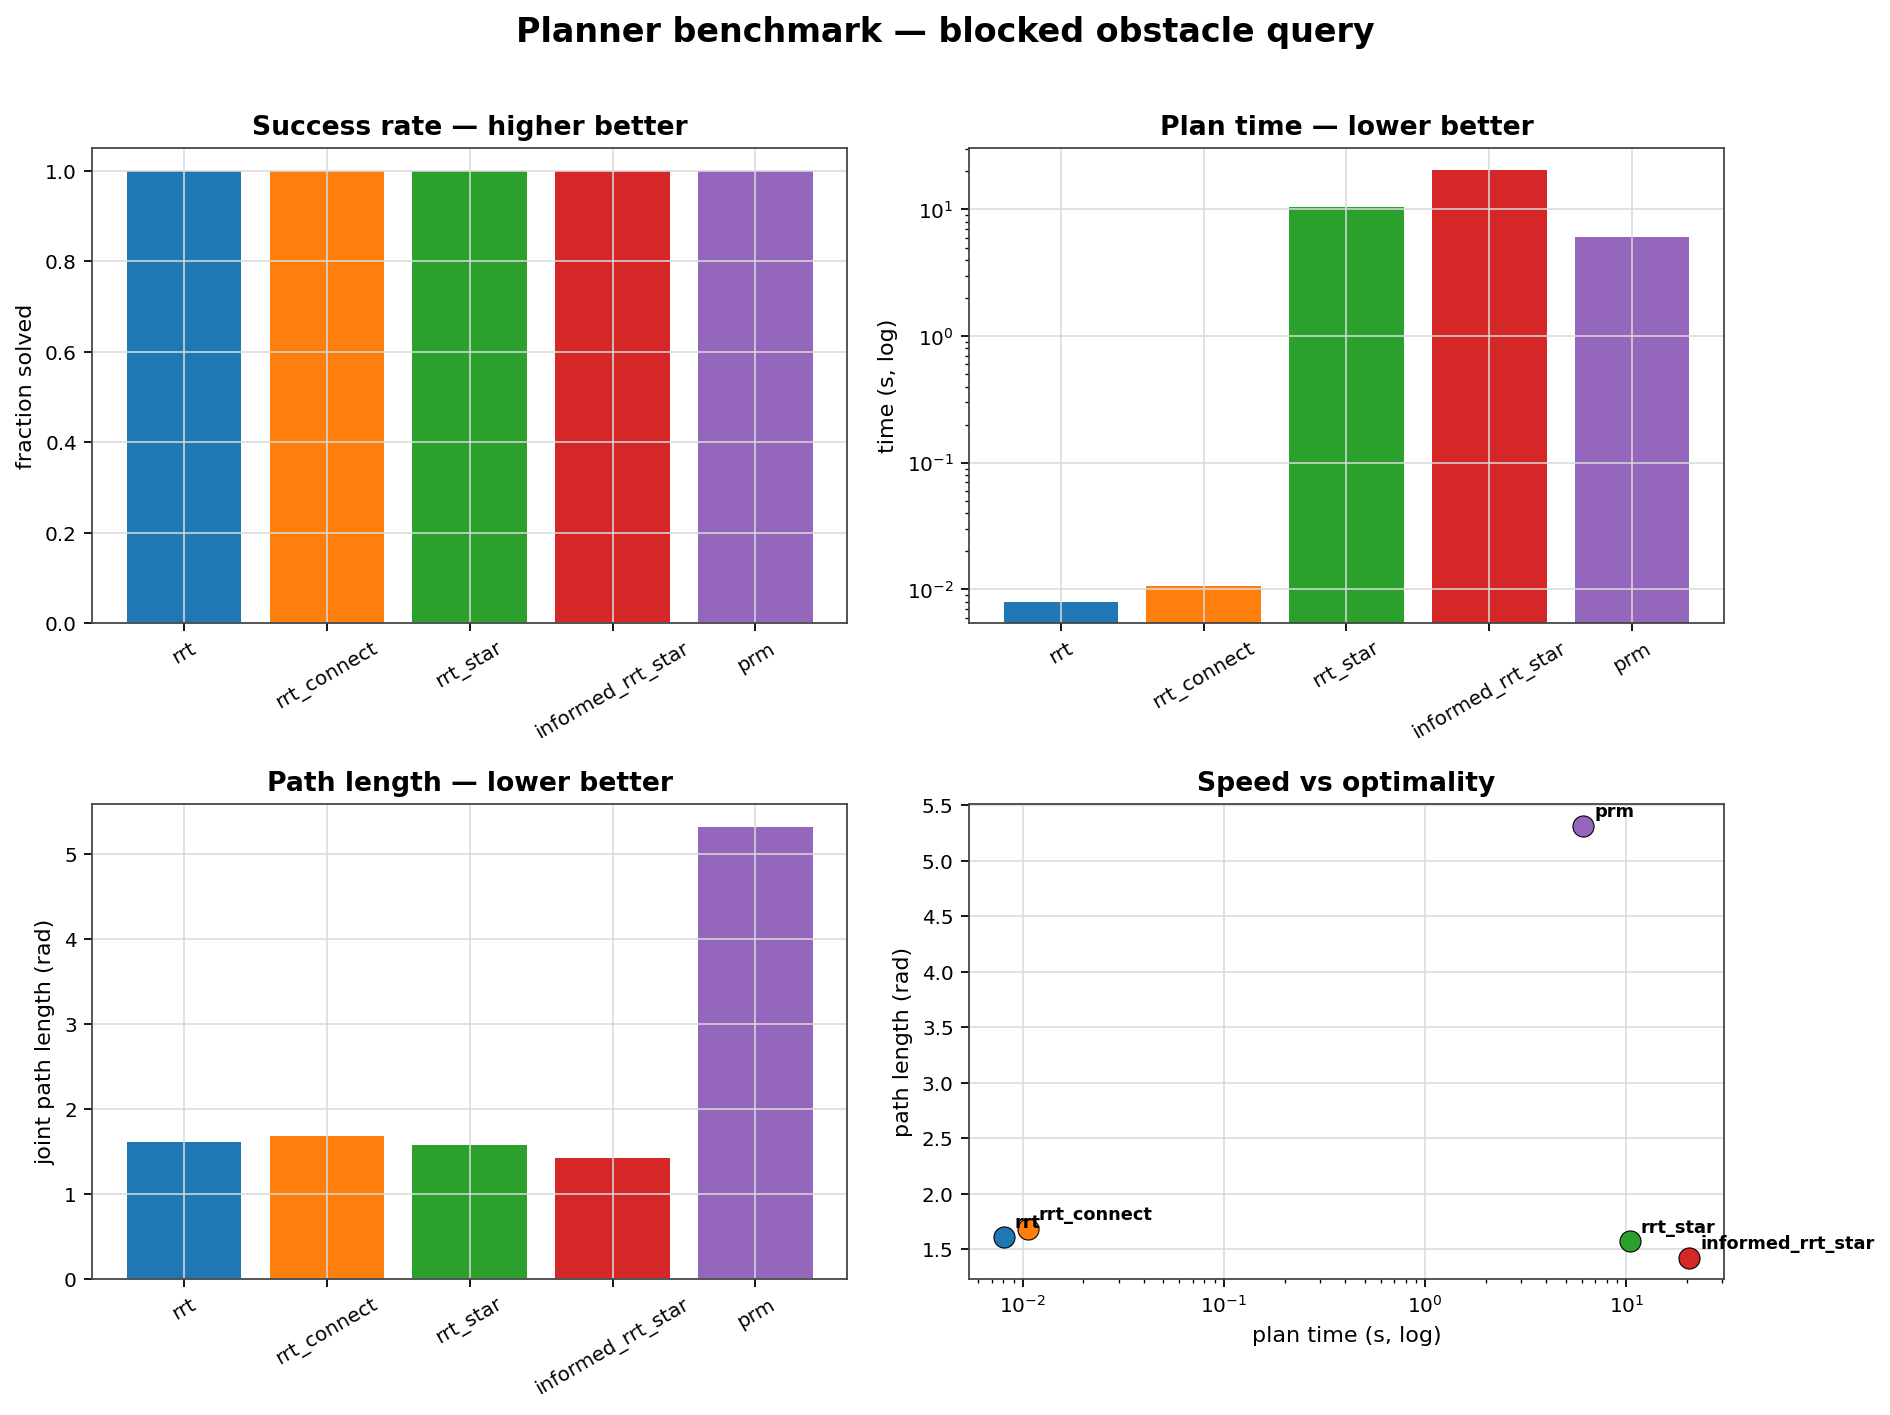
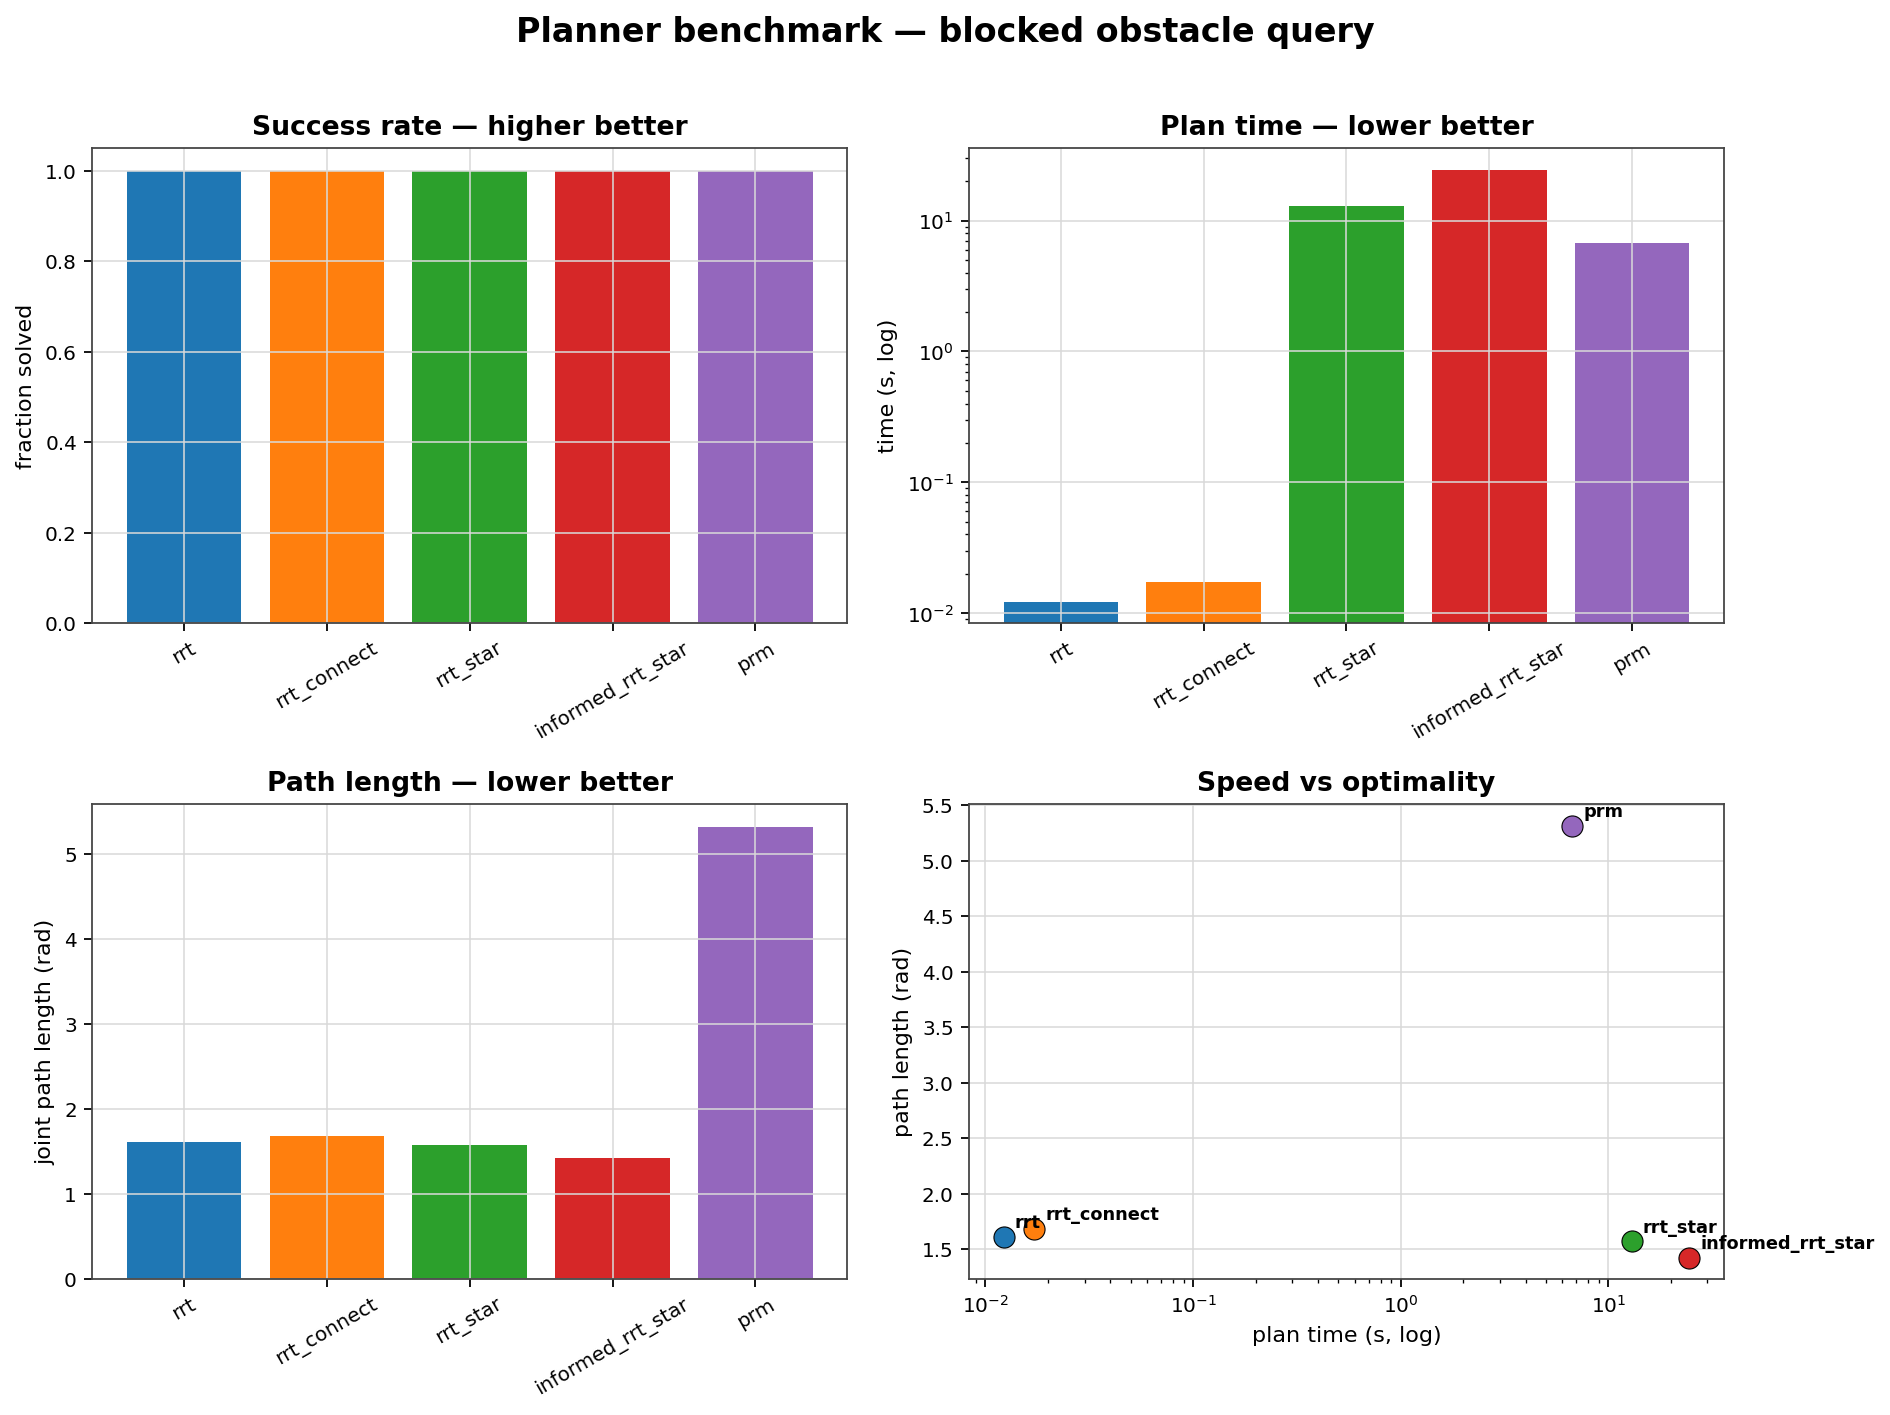
Add results tables up top, refresh benchmark, add correctness tests
- README: a crisp controllers table (success, final err, settle, RMSE, effort,
  compute) and a planners table (success, plan time, path length) near the top,
  each reproducible with `manipdyn bench`; drop the duplicate lower table.
- Regenerate the benchmark artifacts so the committed numbers match.
- Tests: position Jacobian vs finite difference; planned paths respect joint
  limits and are collision-free along their edges, not just at the waypoints.
- Use the live CI badge in the package README too; ignore local planning notes.

diff --git a/manipdyn/tests/test_smoke.py b/manipdyn/tests/test_smoke.py
@@ -29,6 +29,30 @@ def test_mass_matrix_and_jacobian_shapes():
     assert jp.shape == (3, 6) and jr.shape == (3, 6)
 
 
+def test_position_jacobian_matches_finite_difference():
+    """The analytic EE position Jacobian agrees with a central finite difference."""
+    world = World(scene="scene_base")
+    q0 = np.array([0.2, -1.4, 1.3, -1.5, -1.4, 0.3])
+    world.set_arm_qpos(q0)
+    world.forward()
+    jp, _ = world.ee_jacobian()
+
+    eps = 1e-6
+    jp_fd = np.zeros((3, world.n_arm))
+    for j in range(world.n_arm):
+        dq = q0.copy()
+        dq[j] += eps
+        world.set_arm_qpos(dq)
+        world.forward()
+        x_plus = world.ee_pos
+        dq[j] = q0[j] - eps
+        world.set_arm_qpos(dq)
+        world.forward()
+        jp_fd[:, j] = (x_plus - world.ee_pos) / (2 * eps)
+
+    assert np.allclose(jp, jp_fd, atol=1e-5)
+
+
 def test_offscreen_render_produces_frame():
     pytest.importorskip("mujoco")
     from manipdyn.render import Recorder

diff --git a/manipdyn/tests/test_planning.py b/manipdyn/tests/test_planning.py
@@ -40,6 +40,24 @@ def test_planner_returns_collision_free_path(planner_cls):
     assert all(not planner.checker.in_collision(q) for q in path), "path has a colliding node"
 
 
+def test_planned_path_within_limits_and_edges_collision_free():
+    """A path must respect joint limits and be collision-free along its edges,
+    not just at the waypoints."""
+    world = World(scene="scene")
+    planner = RRTConnect(world, seed=0, max_iter=5000)
+    path = planner.plan(Q_START, Q_GOAL)
+    assert path is not None
+
+    lo, hi = world.joint_limits[:, 0], world.joint_limits[:, 1]
+    assert np.all(path >= lo - 1e-6) and np.all(path <= hi + 1e-6), "waypoint outside joint limits"
+
+    checker = planner.checker
+    for a, b in zip(path[:-1], path[1:], strict=False):
+        n = max(2, int(np.linalg.norm(b - a) / 0.05) + 1)
+        for t in np.linspace(0.0, 1.0, n):
+            assert not checker.in_collision((1 - t) * a + t * b), "edge passes through collision"
+
+
 def test_endpoints_in_collision_returns_none():
     world = World(scene="scene")
     planner = RRTConnect(world, seed=0)

diff --git a/README.md b/README.md
@@ -48,6 +48,39 @@ the numbers.
 | **GUI** | a mode-based PySide6 control center — Watch Sim (interactive MuJoCo viewer + live telemetry) or Run Sim (headless results) across every mode |
 | **Engineering** | installable package · typed interfaces · `pytest` suite · headless rendering · ruff · GitHub Actions CI |
 
+## Results
+
+Every method is scored on the **same** auto-tuned scenarios, so the comparison is
+fair. Regenerate the whole table with **`manipdyn bench`**.
+
+**Controllers** — three reach targets on `scene_base`, tuned gains, scored by
+end-effector error:
+
+| controller | success | final err | settle | RMSE¹ | effort ‖τ‖² | compute |
+|------------|:-------:|----------:|-------:|------:|------------:|--------:|
+| computed-torque | 3/3 | **8e-13 mm** | 0.23 s | 72 mm | 6.0e3 | 0.013 ms |
+| lqr | 3/3 | 2e-8 mm | 0.34 s | 80 mm | 2.2e3 | 0.015 ms |
+| osc | 3/3 | 0.008 mm | **0.18 s** | 67 mm | 6.9e3 | 0.054 ms |
+| tsid | 3/3 | 0.025 mm | 0.20 s | **67 mm** | 2.3e3 | 1.41 ms |
+| ilqr | 3/3 | 0.011 mm | 0.29 s | 75 mm | 2.2e3 | 0.13 ms |
+| pid | 3/3 | 0.23 mm | 0.26 s | 74 mm | 6.9e3 | **0.008 ms** |
+| impedance | 3/3 | 2.9 mm | 0.55 s | 71 mm | 4.2e3 | 0.013 ms |
+| mppi | 2/3 | 13.2 mm | 2.12 s | 150 mm | **1.8e3** | 26.3 ms |
+
+**Planners** — a blocked start/goal query on `scene_obstacle` (straight-line
+motion collides); every planner finds a collision-free detour:
+
+| planner | success | plan time | path length |
+|---------|:-------:|----------:|------------:|
+| RRT | 5/5 | **12 ms** | 1.61 rad |
+| RRT-Connect | 5/5 | 17 ms | 1.69 rad |
+| RRT\* | 5/5 | 12.9 s | 1.57 rad |
+| Informed RRT\* | 5/5 | 24.5 s | **1.42 rad** |
+| PRM | 5/5 | 6.7 s | 5.32 rad |
+
+<sub>¹ RMSE is taken over the whole reach, so it reflects the approach transient,
+not the steady-state error (the "final err" column).</sub>
+
 ## Quickstart
 
 ```bash
@@ -73,21 +106,9 @@ for _ in range(1500):
 print("final joint error:", np.linalg.norm(goal - world.qpos_arm))
 ```
 
-## Benchmark results
+## Benchmark plots
 
-Reach scenarios on the UR5e, **tuned gains**, scored by end-effector error.
-Regenerate any time with `manipdyn bench`.
-
-| controller | final err | settle | effort ‖τ‖² | compute |
-|------------|----------:|-------:|------------:|--------:|
-| computed-torque | **8e-13 mm** | 0.23 s | 6.0e3 | 0.014 ms |
-| lqr | 2e-8 mm | 0.34 s | 2.2e3 | 0.010 ms |
-| osc | 0.008 mm | **0.18 s** | 6.9e3 | 0.048 ms |
-| tsid | 0.025 mm | 0.20 s | 2.3e3 | 1.02 ms |
-| ilqr | 0.01 mm | 0.29 s | 2.2e3 | 0.12 ms |
-| pid | 0.23 mm | 0.26 s | 6.9e3 | **0.008 ms** |
-| impedance | 2.93 mm | 0.55 s | 4.2e3 | 0.013 ms |
-| mppi | 13.2 mm | 2.1 s | **1.8e3** | 18.2 ms |
+The same comparison, plotted (regenerate with `manipdyn bench`):
 
 <img src="manipdyn/benchmarks/results/controllers.png" width="80%" alt="controller benchmark"/>
 

diff --git a/manipdyn/README.md b/manipdyn/README.md
@@ -2,11 +2,11 @@
 
 **A MuJoCo-physics lab for 6-DOF manipulator planning and control** — a benchmarked zoo of 8 controllers and 5 motion planners on the UR5e, with trajectory optimization, automatic gain tuning, a reinforcement-learning baseline, and an interactive control center.
 
+[![CI](https://github.com/Manas-arumalla/manipdyn/actions/workflows/ci.yml/badge.svg)](https://github.com/Manas-arumalla/manipdyn/actions/workflows/ci.yml)
 ![Python](https://img.shields.io/badge/Python-3.10+-blue.svg)
 ![MuJoCo](https://img.shields.io/badge/MuJoCo-3.x-orange.svg)
 ![License](https://img.shields.io/badge/License-MIT-green.svg)
-![Tests](https://img.shields.io/badge/tests-passing-brightgreen.svg)
-![Style](https://img.shields.io/badge/lint-ruff-purple.svg)
+![Lint](https://img.shields.io/badge/lint-ruff-purple.svg)
 
 <p float="left">
   <img src="media/pick_place.gif" width="60%" alt="pick and place"/>
@@ -71,19 +71,36 @@ manipdyn gui          # launch the control center
 
 ## Benchmark results
 
-Reach scenarios on `scene_base`, **tuned gains**, scored by end-effector error.
-Regenerate with `manipdyn bench`.
+Every method is scored on the **same** auto-tuned scenarios. Regenerate the whole
+table with `manipdyn bench`.
 
-| controller | final err | settle | effort ‖τ‖² | compute |
-|------------|----------:|-------:|------------:|--------:|
-| computed-torque | **8e-13 mm** | 0.23 s | 6.0e3 | 0.014 ms |
-| lqr | 2e-8 mm | 0.34 s | 2.2e3 | 0.010 ms |
-| osc | 0.008 mm | **0.18 s** | 6.9e3 | 0.048 ms |
-| tsid | 0.025 mm | 0.20 s | 2.3e3 | 1.02 ms |
-| ilqr | 0.01 mm | 0.29 s | 2.2e3 | 0.12 ms |
-| pid | 0.23 mm | 0.26 s | 6.9e3 | **0.008 ms** |
-| impedance | 2.93 mm | 0.55 s | 4.2e3 | 0.013 ms |
-| mppi | 13.2 mm | 2.1 s | **1.8e3** | 18.2 ms |
+**Controllers** — three reach targets on `scene_base`, tuned gains, scored by
+end-effector error:
+
+| controller | success | final err | settle | RMSE¹ | effort ‖τ‖² | compute |
+|------------|:-------:|----------:|-------:|------:|------------:|--------:|
+| computed-torque | 3/3 | **8e-13 mm** | 0.23 s | 72 mm | 6.0e3 | 0.013 ms |
+| lqr | 3/3 | 2e-8 mm | 0.34 s | 80 mm | 2.2e3 | 0.015 ms |
+| osc | 3/3 | 0.008 mm | **0.18 s** | 67 mm | 6.9e3 | 0.054 ms |
+| tsid | 3/3 | 0.025 mm | 0.20 s | **67 mm** | 2.3e3 | 1.41 ms |
+| ilqr | 3/3 | 0.011 mm | 0.29 s | 75 mm | 2.2e3 | 0.13 ms |
+| pid | 3/3 | 0.23 mm | 0.26 s | 74 mm | 6.9e3 | **0.008 ms** |
+| impedance | 3/3 | 2.9 mm | 0.55 s | 71 mm | 4.2e3 | 0.013 ms |
+| mppi | 2/3 | 13.2 mm | 2.12 s | 150 mm | **1.8e3** | 26.3 ms |
+
+**Planners** — a blocked start/goal query on `scene_obstacle`; every planner
+finds a collision-free detour:
+
+| planner | success | plan time | path length |
+|---------|:-------:|----------:|------------:|
+| RRT | 5/5 | **12 ms** | 1.61 rad |
+| RRT-Connect | 5/5 | 17 ms | 1.69 rad |
+| RRT\* | 5/5 | 12.9 s | 1.57 rad |
+| Informed RRT\* | 5/5 | 24.5 s | **1.42 rad** |
+| PRM | 5/5 | 6.7 s | 5.32 rad |
+
+<sub>¹ RMSE is over the whole reach (approach transient included), not the
+steady-state error in the "final err" column.</sub>
 
 ![controller benchmark](benchmarks/results/controllers.png)
 

diff --git a/manipdyn/benchmarks/results/BENCHMARK.md b/manipdyn/benchmarks/results/BENCHMARK.md
@@ -6,14 +6,14 @@ Reach scenarios on `scene_base`, tuned gains, scored by end-effector error towar
 
 | controller | success_rate | final_err_mm | settle_s | rmse_mm | effort | peak_torque_nm | compute_ms |
 | --- | --- | --- | --- | --- | --- | --- | --- |
-| pid | 1 | 0.229 | 0.261 | 73.7 | 6.94e+03 | 875 | 6.73e-03 |
-| ctc | 1 | 8.20e-13 | 0.225 | 71.6 | 5.97e+03 | 523 | 0.0114 |
-| lqr | 1 | 1.82e-08 | 0.34 | 80.4 | 2.17e+03 | 352 | 9.05e-03 |
-| ilqr | 1 | 0.0105 | 0.285 | 75 | 2.21e+03 | 220 | 0.104 |
-| impedance | 1 | 2.93 | 0.546 | 71.1 | 4.19e+03 | 486 | 9.25e-03 |
-| osc | 1 | 7.99e-03 | 0.182 | 67.3 | 6.93e+03 | 797 | 0.0356 |
-| tsid | 1 | 0.0246 | 0.196 | 66.6 | 2.28e+03 | 233 | 1.02 |
-| mppi | 0.667 | 13.2 | 2.12 | 150 | 1.76e+03 | 76 | 18.2 |
+| pid | 1 | 0.229 | 0.261 | 73.7 | 6.94e+03 | 875 | 7.73e-03 |
+| ctc | 1 | 8.20e-13 | 0.225 | 71.6 | 5.97e+03 | 523 | 0.0132 |
+| lqr | 1 | 1.82e-08 | 0.34 | 80.4 | 2.17e+03 | 352 | 0.0152 |
+| ilqr | 1 | 0.0105 | 0.285 | 75 | 2.21e+03 | 220 | 0.132 |
+| impedance | 1 | 2.93 | 0.546 | 71.1 | 4.19e+03 | 486 | 0.0131 |
+| osc | 1 | 7.99e-03 | 0.182 | 67.3 | 6.93e+03 | 797 | 0.0541 |
+| tsid | 1 | 0.0246 | 0.196 | 66.6 | 2.28e+03 | 233 | 1.41 |
+| mppi | 0.667 | 13.2 | 2.12 | 150 | 1.76e+03 | 76 | 26.3 |
 
 ![controllers](controllers.png)
 
@@ -23,10 +23,10 @@ Start→goal queries in an obstacle scene, averaged over seeds.
 
 | planner | success_rate | plan_time_s | path_len_rad | raw_nodes | collision_free |
 | --- | --- | --- | --- | --- | --- |
-| rrt | 1 | 8.02e-03 | 1.61 | 11.6 | True |
-| rrt_connect | 1 | 0.0106 | 1.69 | 14.6 | True |
-| rrt_star | 1 | 10.4 | 1.57 | 6.2 | True |
-| informed_rrt_star | 1 | 20.6 | 1.42 | 5.4 | True |
-| prm | 1 | 6.1 | 5.32 | 3.8 | True |
+| rrt | 1 | 0.0122 | 1.61 | 11.6 | True |
+| rrt_connect | 1 | 0.0171 | 1.69 | 14.6 | True |
+| rrt_star | 1 | 12.9 | 1.57 | 6.2 | True |
+| informed_rrt_star | 1 | 24.5 | 1.42 | 5.4 | True |
+| prm | 1 | 6.7 | 5.32 | 3.8 | True |
 
 ![planners](planners.png)